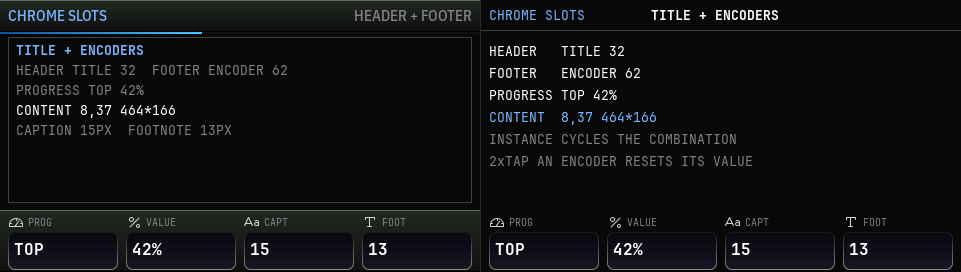
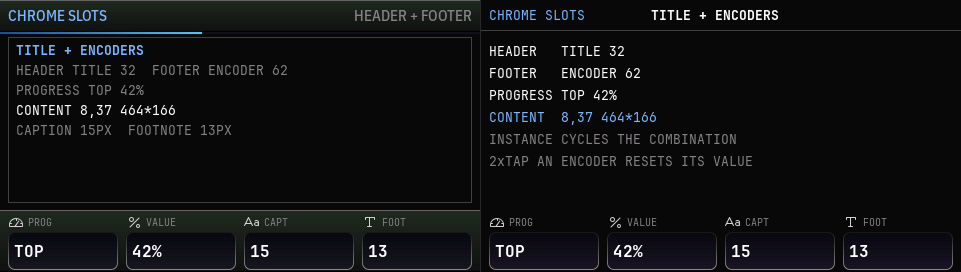
Center value-cell text on its figure band, not its glyph box
Bench feedback while preparing the chrome-diet A/B: well values must
stay optically centered at any well height. They never were — the mono
cell reserves descender space that digits and caps never use, so box
centering rode ~2px high (the icon-box trap again). The value now
centers its figure band, probed once per font via inkExtent("0"), so
every cell shares one baseline and the centering holds for any
rect/font combination. Renderer-less callers keep the box fallback.
Gallery renders with encoder footers regenerated; 387 tests green.

diff --git a/Sources/KontrolSurfaceKit2/ValueCell.swift b/Sources/KontrolSurfaceKit2/ValueCell.swift
@@ -122,11 +122,24 @@ public struct MK2ValueCell: Sendable {
             )
         }
 
+        // Center the value's figure band (probed via "0") in the well, not its
+        // glyph box: the mono cell reserves descender space that digits and
+        // caps never use, so box centering rides ~2px high — the same trap as
+        // the icon boxes (MK2IconAlignment). One shared probe keeps every cell
+        // on a common baseline regardless of the individual value's ink.
         let glyph = BitmapLabel(value, font: valueFont, color: isFocused ? colors.focusedValue : colors.value)
+        let valueY: Int
+        if let renderer,
+           let figures = try? renderer.inkExtent("0", style: valueFont.measurementStyle),
+           figures.height > 0 {
+            valueY = rect.y + rect.height / 2 - valueFont.ascent - figures.top - figures.height / 2
+        } else {
+            valueY = rect.y + max(0, (rect.height - glyph.height) / 2)
+        }
         glyph.draw(
             into: &frame,
             x: rect.x + 6,
-            y: rect.y + max(0, (rect.height - glyph.height) / 2),
+            y: valueY,
             clip: MK2PixelRect(x: rect.x + 4, y: rect.y, width: max(0, rect.width - 8), height: rect.height)
         )
     }
